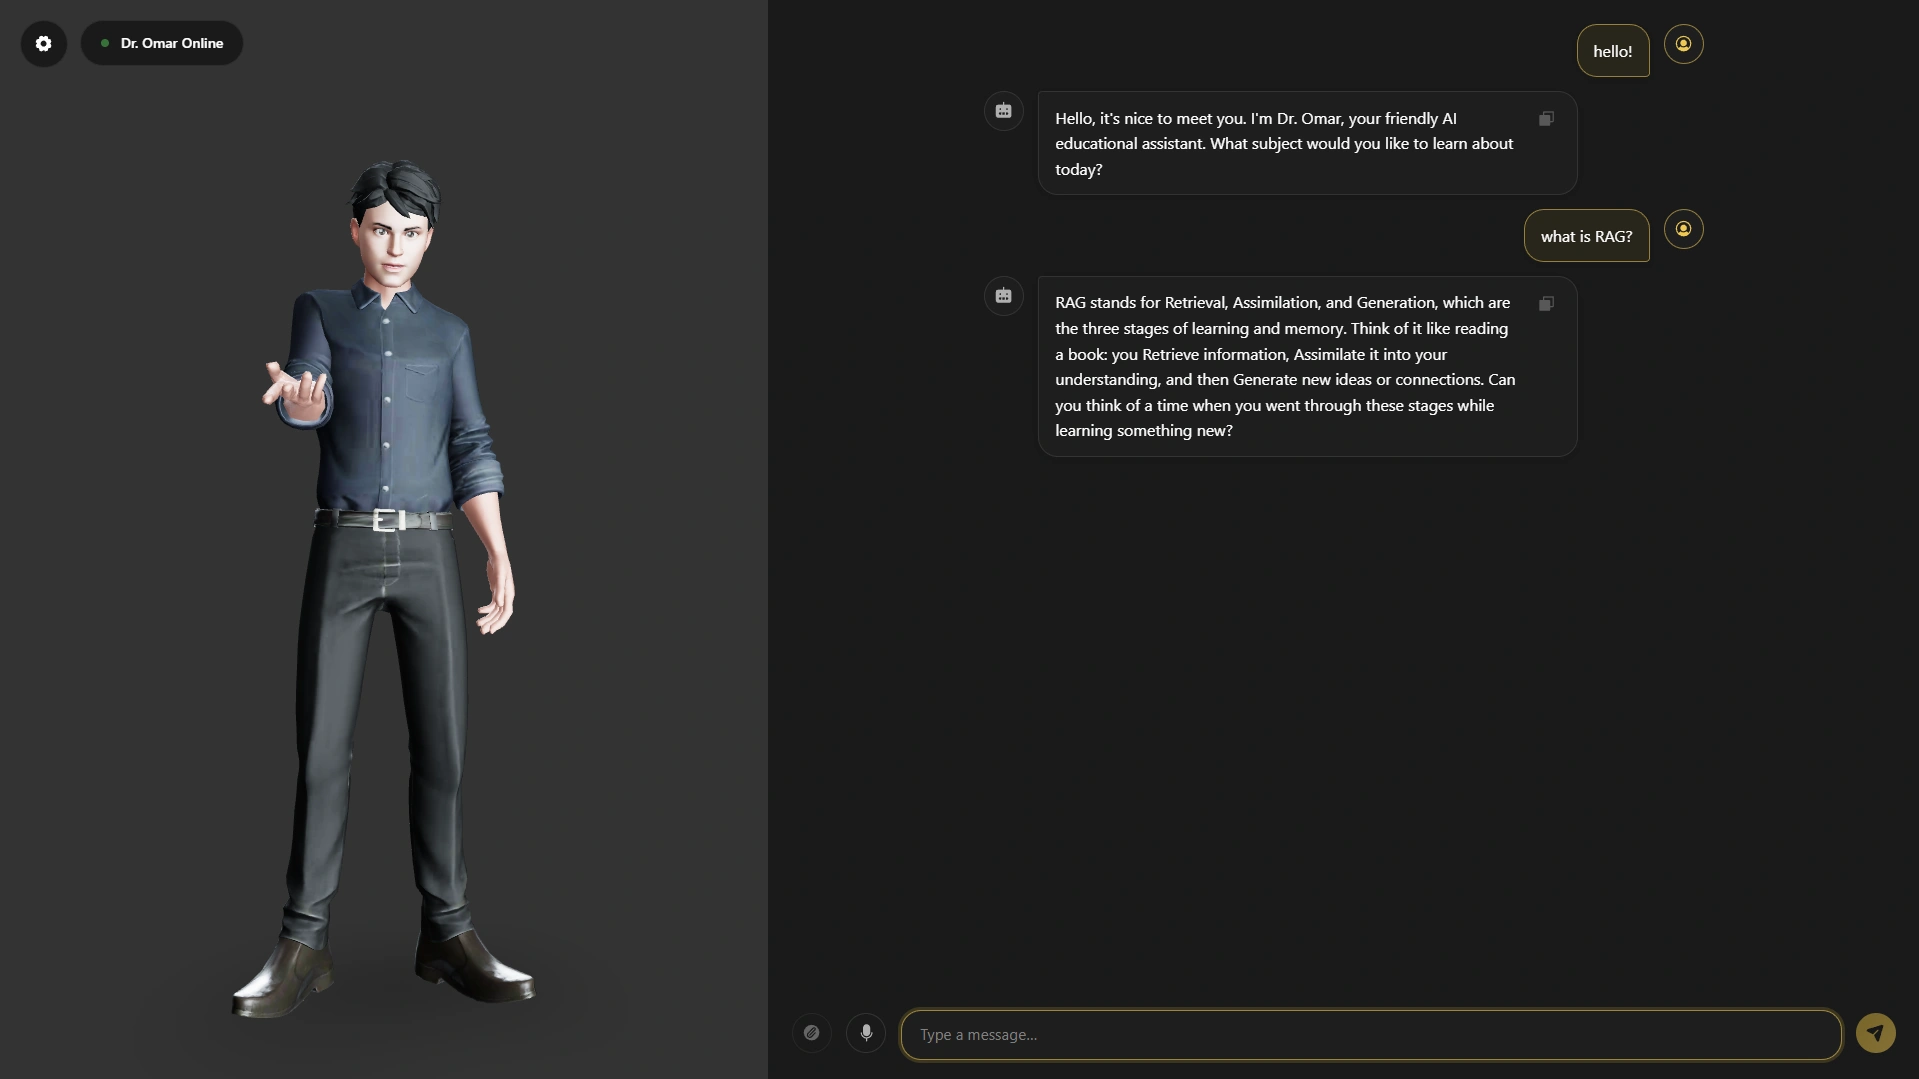
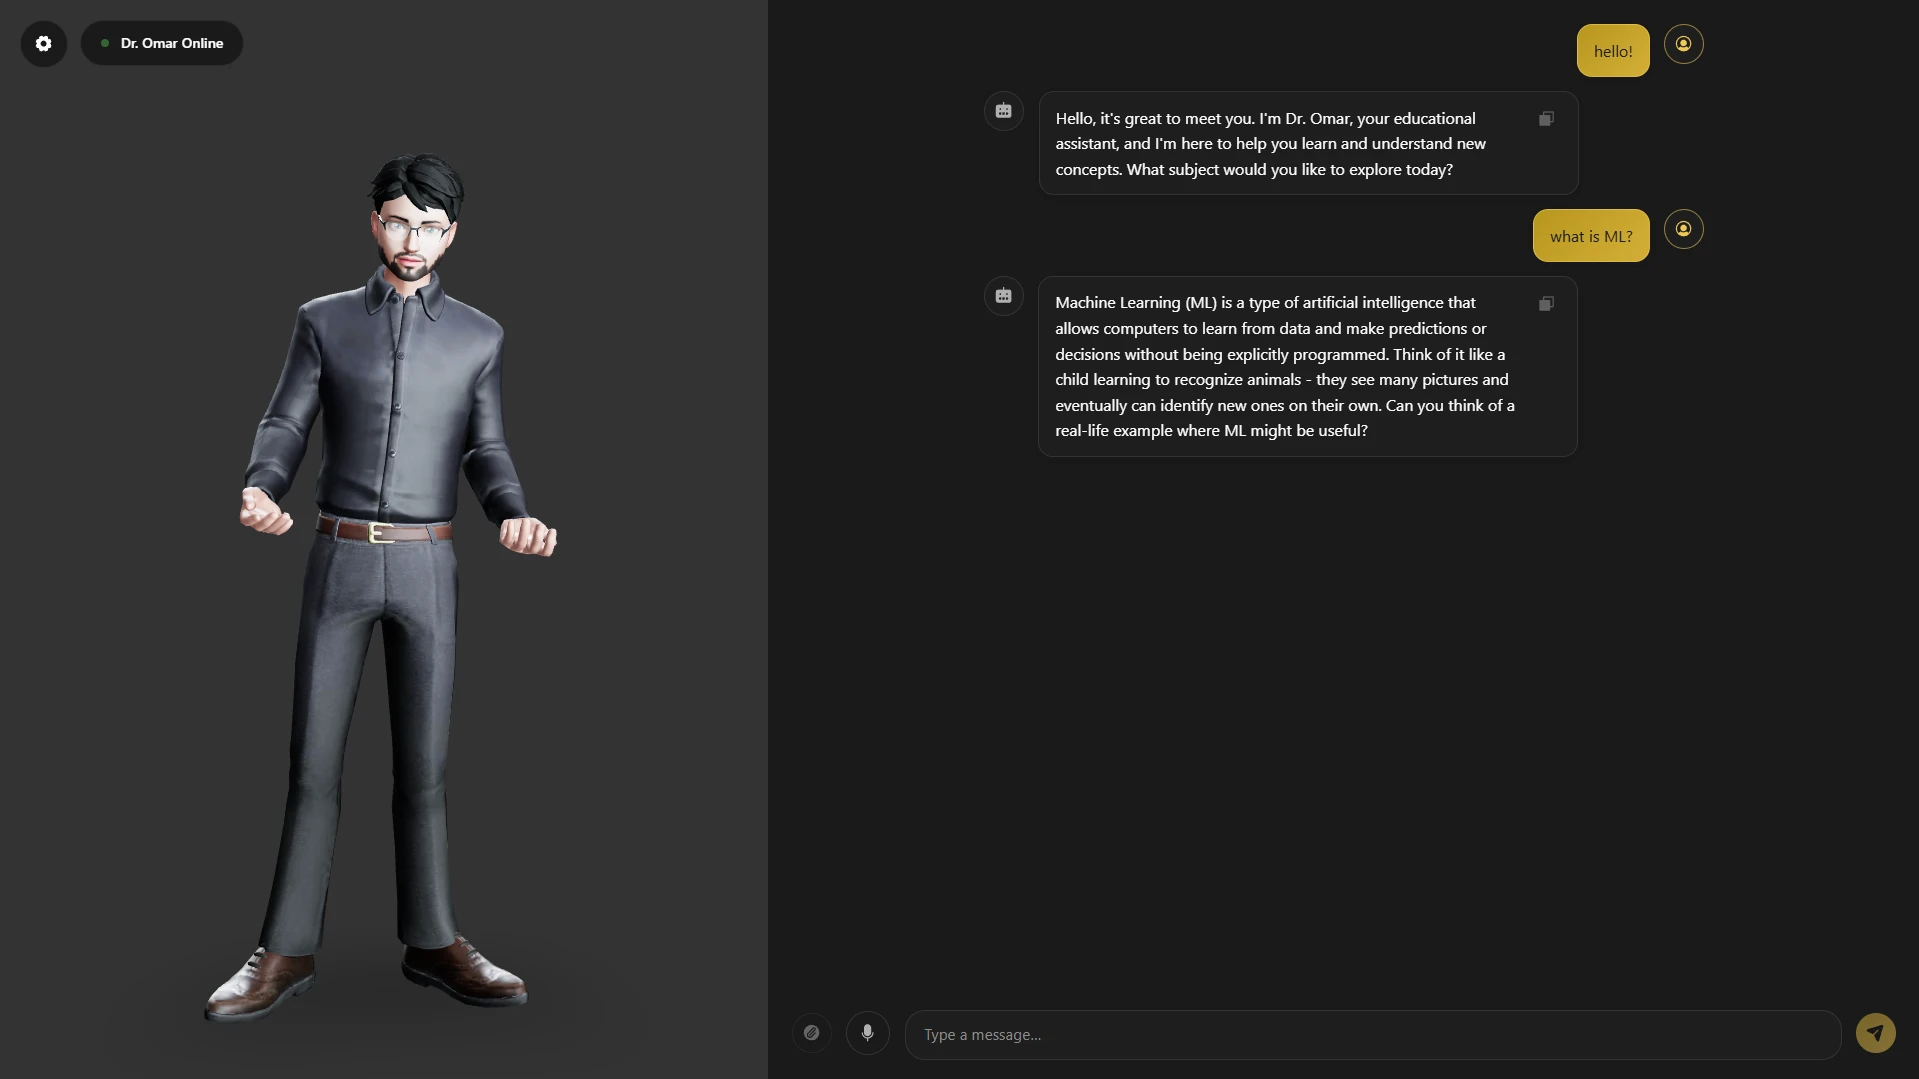
feat: Update message bubble styles and toast colors for improved UI consistency

diff --git a/frontend/src/widgets/Classroom/Classroom.css b/frontend/src/widgets/Classroom/Classroom.css
@@ -365,14 +365,15 @@
 
 /* AI messages: rounded except bottom-left */
 .ai-message .message-bubble {
-  border-radius: 4px 20px 20px 20px;
+  border-radius: 15px;
 }
 
 /* User messages: right-aligned, accent tint, rounded except bottom-right */
 .user-message .message-bubble {
-  background: rgba(212, 175, 55, 0.08);
-  border-color: rgba(240, 200, 82, 0.55);
-  border-radius: 20px 20px 4px 20px;
+    background: linear-gradient(135deg, #b8961f, #d4af37);
+    color: #1a1a1a;
+    border: 1px solid rgba(240, 200, 82, 0.55);
+    border-radius: 15px;
 }
 
 /* Entrance animation */
@@ -1116,7 +1117,7 @@
 
 .toast.success {
   background: rgba(22, 163, 74, 0.95);
-  color: #121212;
+  color: #fff;
 }
 
 .toast.error {
@@ -1125,12 +1126,12 @@
 
 .toast.warning {
   background: rgba(245, 158, 11, 0.95);
-  color: #121212;
+  color: #fff;
 }
 
 .toast.info {
   background: rgba(59, 130, 246, 0.95);
-  color: #121212;
+  color: #fff;
 }
 
 .toast-icon {